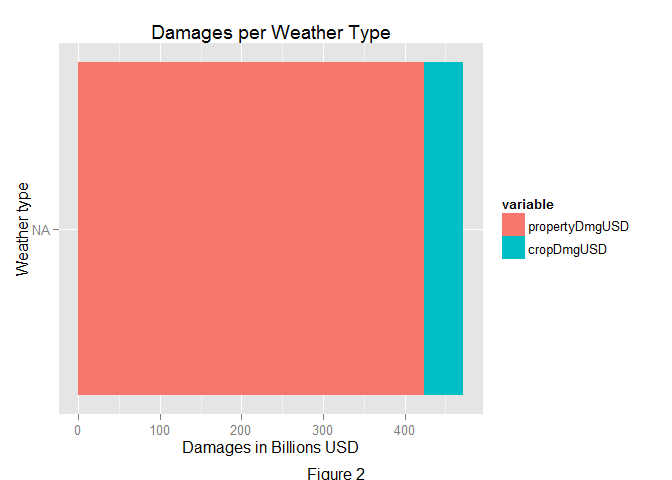
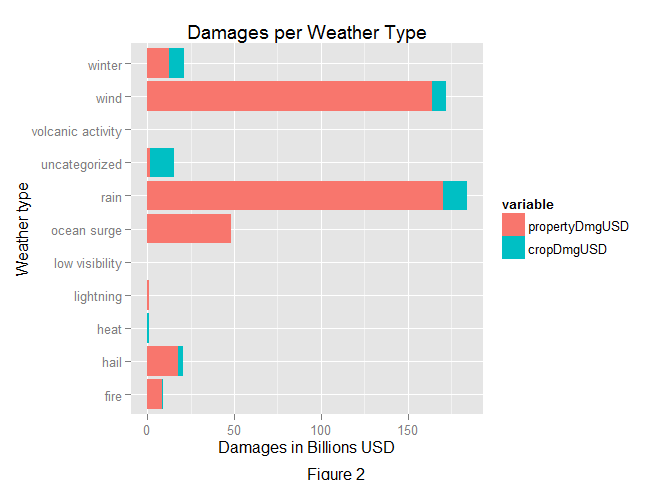
Fixed Figure 2 for Question 2

diff --git a/Project.html b/Project.html
@@ -187,10 +187,9 @@ crop &lt;- sqldf(&quot;select *, propertyDmgUSD + cropDmgUSD as totalCost from c
 ## create long form on crop vs property damage columns
 cdat &lt;- melt(crop, id.vars=c(&quot;weatherCategory&quot;, &quot;sumrecs&quot;, &quot;totalCost&quot;), measure.vars=c(&quot;propertyDmgUSD&quot;, &quot;cropDmgUSD&quot;))
 cdat &lt;- sqldf(&quot;select *, (value/sumrecs) as costPerEvent from cdat&quot;)
-cdat$weatherCategory &lt;- factor(cdat$weatherCategory, levels=cdat[order(cdat$propertyDmgUSD + cdat$cropDmgUSD), &quot;weatherCategory&quot;])
 plot3 &lt;- ggplot(cdat, aes(x=weatherCategory, y=value/1000000000, fill=variable)) + geom_bar(stat=&quot;identity&quot;) + coord_flip() + ggtitle(&quot;Damages per Weather Type&quot;) + xlab(&quot;Weather type&quot;) + ylab(&quot;Damages in Billions USD&quot;)
 grid.arrange(plot3, ncol=1, sub=&quot;Figure 2&quot;)</code></pre>
[2 lines of base64/hex data omitted]
 <p>Rain and wind events are the most costly weather types, both in terms of property and damage to crops. There is a very significant crop damage cost in the “uncategorized” weather events. This bears examination, and possibly some re-evaluation of the categorization used in this study.</p>
 </div>
 </div>

diff --git a/Project.md b/Project.md
@@ -193,7 +193,6 @@ crop <- sqldf("select *, propertyDmgUSD + cropDmgUSD as totalCost from crop")
 ## create long form on crop vs property damage columns
 cdat <- melt(crop, id.vars=c("weatherCategory", "sumrecs", "totalCost"), measure.vars=c("propertyDmgUSD", "cropDmgUSD"))
 cdat <- sqldf("select *, (value/sumrecs) as costPerEvent from cdat")
-cdat$weatherCategory <- factor(cdat$weatherCategory, levels=cdat[order(cdat$propertyDmgUSD + cdat$cropDmgUSD), "weatherCategory"])
 plot3 <- ggplot(cdat, aes(x=weatherCategory, y=value/1000000000, fill=variable)) + geom_bar(stat="identity") + coord_flip() + ggtitle("Damages per Weather Type") + xlab("Weather type") + ylab("Damages in Billions USD")
 grid.arrange(plot3, ncol=1, sub="Figure 2")
 ```
